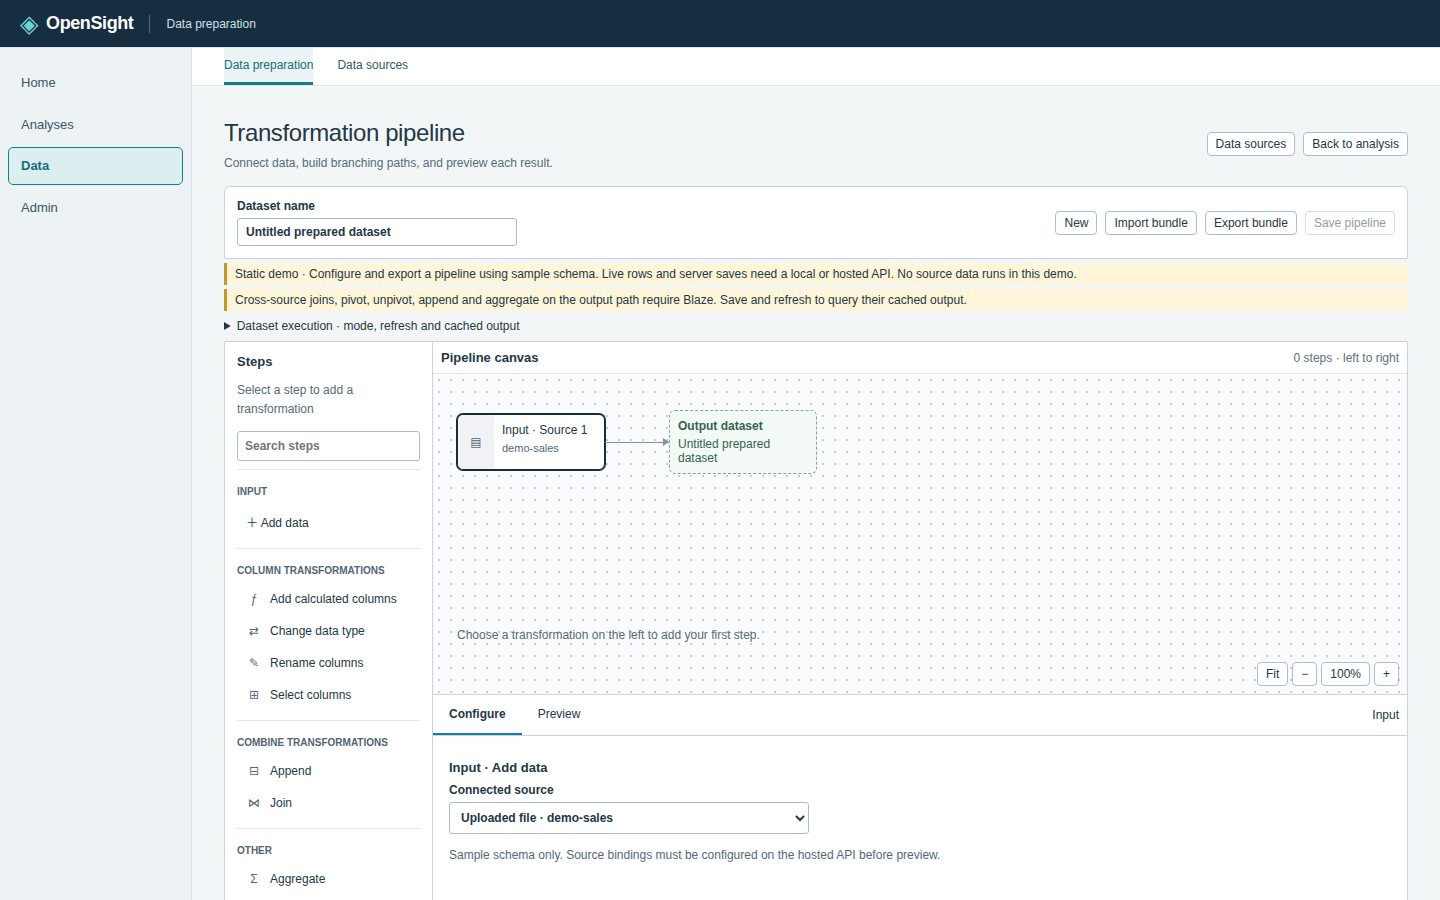
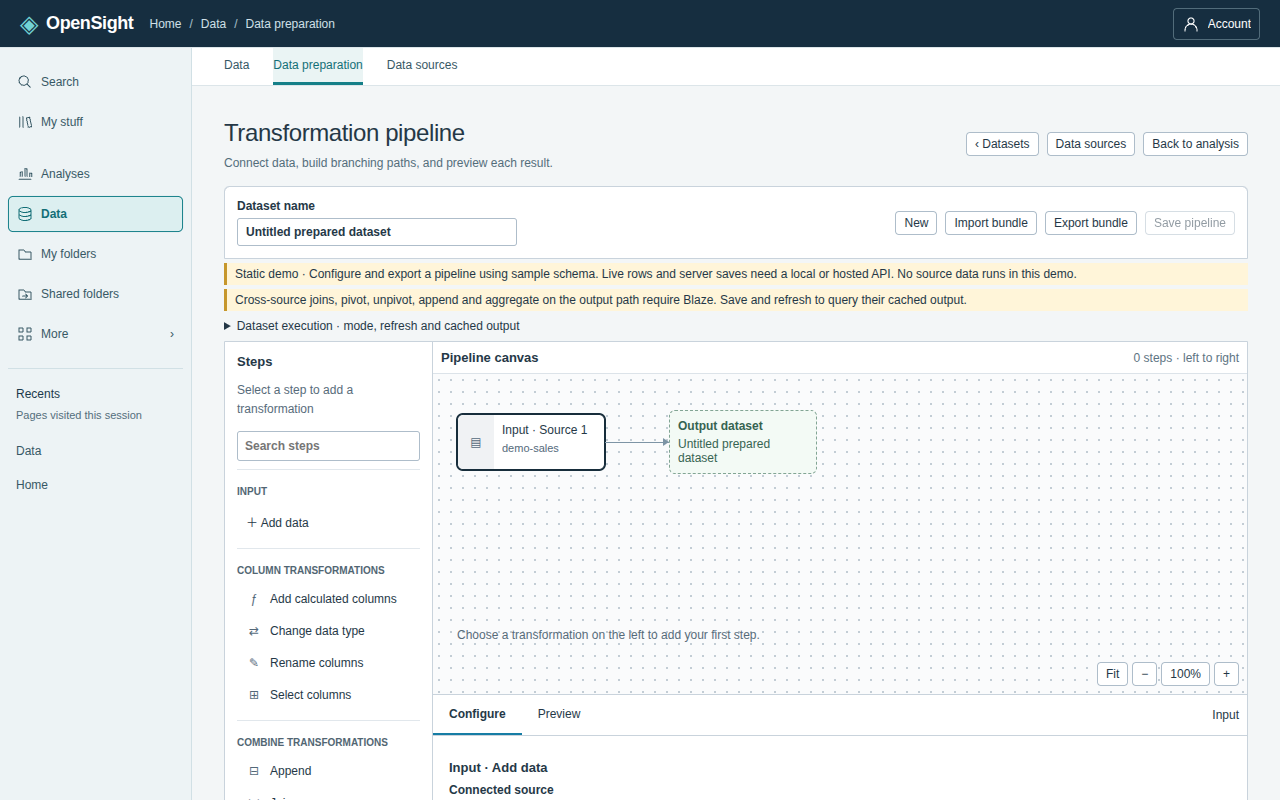
Issue #70: refresh README GIF and data-section screenshots

diff --git a/README.md b/README.md
@@ -205,10 +205,13 @@ scrolling in dashboard and Author previews, including the offline demo.
 
 ### 🛠 Visual data preparation
 
-Build your own datasets on a transformation pipeline canvas: select fields,
-add calculated columns, change types, rename, filter — and combine sources
-with join/append steps. Branch from an earlier step, choose the output, and
-preview each path against a local or hosted API.
+The **Data** page lists your datasets and data sources — creating a dataset or
+editing one opens the preparation canvas: select fields, add calculated columns,
+change types, rename, filter — and combine sources with join/append steps. Branch
+from an earlier step, choose the output, and preview each path against a local or
+hosted API.
+
+![Data landing page with datasets, topics, and data sources tabs](docs/images/data-landing.png)
 
 ![Data preparation canvas with hosted preview requirements](docs/images/data-prep.png)
 
@@ -225,12 +228,12 @@ See [Blaze configuration and limits](docs/blaze.md).
 ### 🔌 Data source connectors
 
 Start with CSV/TSV/JSON/Excel file uploads into DuckDB staging, then prepare
-your data and build a chart. **Show unavailable connectors** reveals the rest
-of the 23-entry catalog with honest setup and implementation states. PostgreSQL
-requires an operator-provisioned hosted source; MySQL has no product API path.
-The static demo shows the file setup with uploads disabled.
+your data and build a chart. The **Create data source** dialog lists only
+connectors OpenSight can actually use — no AWS-only services. PostgreSQL uses
+operator-provisioned hosted sources; MySQL is shown honestly as not yet
+implemented. The static demo shows the connector tiles with uploads disabled.
 
-![Local Data sources view featuring file upload with unavailable connectors hidden](docs/images/data-sources.png)
+![Create data source dialog with the connector tile grid](docs/images/data-sources.png)
 
 The local stack accepts files without hosted authentication. Upload a CSV,
 prepare its columns, save the pipeline and select **Build a chart**. See
